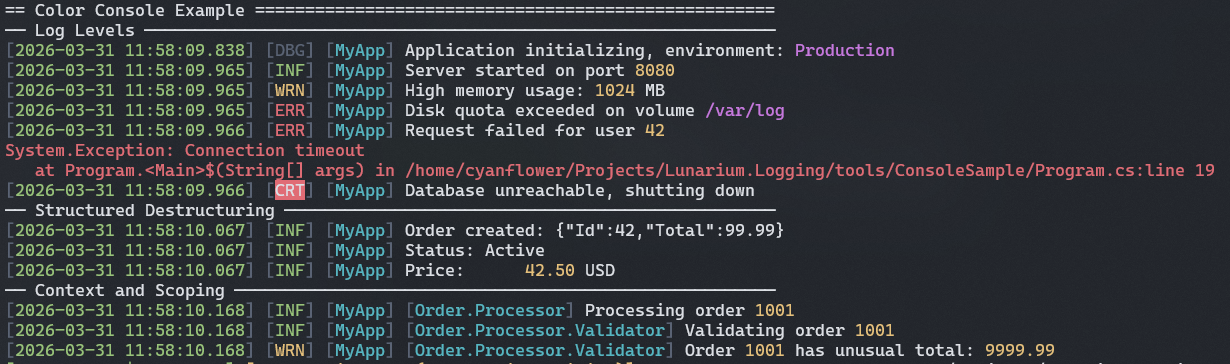
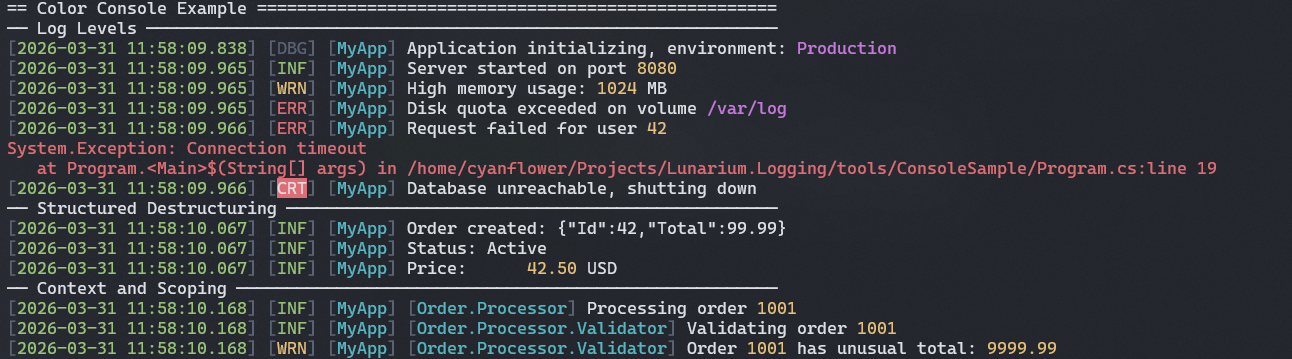
chore: move images to assets/, refresh coverage report, minor tweaks
- Move icon.png and screenshot files from root to assets/
- Update ConsoleSample with top-level title header
- Refresh CoverageReport to 2026-03-31 run
- Add CI skip rules and paths-ignore notes to CLAUDE.md

Changed region(s): [[0.0, 0.0, 0.9886, 1.0]]

diff --git a/tools/ConsoleSample/Program.cs b/tools/ConsoleSample/Program.cs
@@ -9,6 +9,7 @@ ILogger logger = new LoggerBuilder()
     .Build();
 
 // ── Section 1: Log levels ─────────────────────────────────────────────────────
+Console.WriteLine("== Color Console Example ====================================================");
 Console.WriteLine("── Log Levels ───────────────────────────────────────────────────────────────");
 logger.Debug("Application initializing, environment: {Env}", "Production");
 logger.Info("Server started on port {Port}", 8080);

diff --git a/CLAUDE.md b/CLAUDE.md
@@ -3,7 +3,15 @@
 ## 提示指令
 - 在遇到需要测试项目相关信息的时候优先通过各个测试项目的 Index.md 快速了解相关信息，避免读全库再寻找等等操作
 - 任何时候，当你为你编写或修改了测试用例（tests/）或基准测试（benchmarks/），你必须在同一个回复或后续的修改步骤中，同步更新对应的 Index.md。如果你遗漏了这一步，将被视为严重的任务失败。
-
+- 在推送时, 如果本次修改不包含影响库的代码实现(如 md 更改, doc 更改), 添加[skip ci]
+- 当前自动过滤路径 (无需手动[skip ci]):
+```
+paths-ignore:
+- '**.md'
+- 'example/**'
+- 'BenchmarkReports/**'
+- 'CoverageReport/**'
+```
 ## 项目概述
 
 .NET 10.0 结构化日志库（Class Library）。参考 Serilog 设计的消息模板解析，基于 .NET Channel 的异步日志分发架构。
